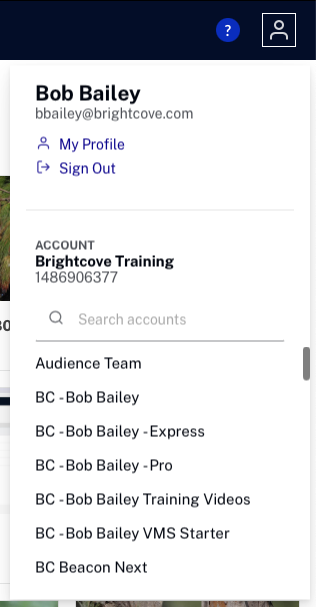
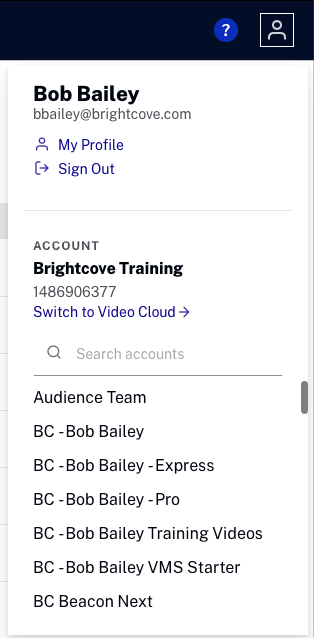
updates

diff --git a/_site/get-started/getting-started-marketing-studio.html b/_site/get-started/getting-started-marketing-studio.html
@@ -292,9 +292,10 @@ function doGTranslate(lang_pair) {if(lang_pair.value)lang_pair=lang_pair.value;i
   </section>
   <section class="bcls-section">
     <h2 id="account">Selecting an account</h2>
-    <p>If you have access to multiple Video Cloud accounts, the Video Cloud account selector can be used to select the Video Cloud account you want to access. To switch accounts, click on your <strong>name - account</strong> in the top right corner of Video Cloud Studio. The current account is indicated with a dot preceding the account name.</p>
+    <p>If you have access to multiple Video Cloud accounts, the Video Cloud account selector can be used to select the Video Cloud account you want to access. To switch accounts, click the profile icon<strong></strong> in the top right corner of Marketing Studio. The current account will be bolded and appear at the top of the list.</p>
     <figure class="bcls-figure"><img class="bcls-image--no-border" alt="" src="/assets/images/get-started/account-selector.png" /></figure>
     <p>Click the <strong>My Profile</strong> link to update your user information and password. For more information, see <a href="/admin/managing-profile-information.html">Managing Profile Information</a>.</p>
+    <p>Click <strong>Switch to Video Cloud <i data-feather="arrow-right"></i></strong> to open Video Cloud Studio.</p>
   </section>
   <section class="bcls-section">
     <h2 id="pages">Accessing pages</h2>

diff --git a/get-started/getting-started-marketing-studio.html b/get-started/getting-started-marketing-studio.html
@@ -24,9 +24,10 @@ layout: staging
   </section>
   <section class="bcls-section">
     <h2 id="account">Selecting an account</h2>
-    <p>If you have access to multiple Video Cloud accounts, the Video Cloud account selector can be used to select the Video Cloud account you want to access. To switch accounts, click on your <strong>name - account</strong> in the top right corner of Video Cloud Studio. The current account is indicated with a dot preceding the account name.</p>
+    <p>If you have access to multiple Video Cloud accounts, the Video Cloud account selector can be used to select the Video Cloud account you want to access. To switch accounts, click the profile icon<strong></strong> in the top right corner of Marketing Studio. The current account will be bolded and appear at the top of the list.</p>
     <figure class="bcls-figure"><img class="bcls-image--no-border" alt="" src="/assets/images/get-started/account-selector.png" /></figure>
     <p>Click the <strong>My Profile</strong> link to update your user information and password. For more information, see <a href="/admin/managing-profile-information.html">Managing Profile Information</a>.</p>
+    <p>Click <strong>Switch to Video Cloud <i data-feather="arrow-right"></i></strong> to open Video Cloud Studio.</p>
   </section>
   <section class="bcls-section">
     <h2 id="pages">Accessing pages</h2>

diff --git a/_site/media/uploading-videos.html b/_site/media/uploading-videos.html
@@ -279,7 +279,7 @@ function doGTranslate(lang_pair) {if(lang_pair.value)lang_pair=lang_pair.value;i
     <p>To upload videos to your account, follow these steps.</p>
     <ol class="bcls-tasklist-restart" style="--s:1">
       <li>Click <strong>Media</strong> in the primary navigation.</li>
-      <li>Drag files from the file system to the Media page. The whole becomes the drop zone.
+      <li>Drag files from the file system to the Media page. The body of the page becomes the drop zone.
         <figure class="bcls-figure"><img class="bcls-image--no-border" alt="" src="/assets/images/media/uploading-videos/drag-drop-videos.png" /></figure>
       </li>
       <li>Click the upload status indicator in the page header to view the upload progress.

diff --git a/media/uploading-videos.html b/media/uploading-videos.html
@@ -11,7 +11,7 @@ layout: staging
     <p>To upload videos to your account, follow these steps.</p>
     <ol class="bcls-tasklist-restart" style="--s:1">
       <li>Click <strong>Media</strong> in the primary navigation.</li>
-      <li>Drag files from the file system to the Media page. The whole becomes the drop zone.
+      <li>Drag files from the file system to the Media page. The body of the page becomes the drop zone.
         <figure class="bcls-figure"><img class="bcls-image--no-border" alt="" src="/assets/images/media/uploading-videos/drag-drop-videos.png" /></figure>
       </li>
       <li>Click the upload status indicator in the page header to view the upload progress.
